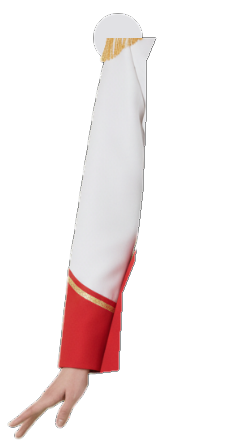
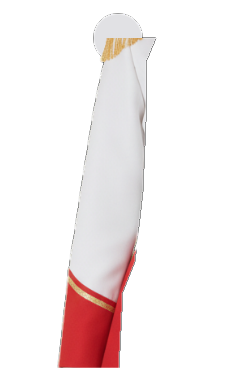
feat(rig-foto): manos como piezas aparte (guantes) con giro de muneca
La manga termina en la muneca; la mano (abierta, pulgar/puno, senalar) es una pieza que queda
detras del puño y gira en la muneca. Cada gesto elige su mano.

Changed region(s): [[0.0307, 0.0298, 0.7061, 1.0], [0.5833, 0.1491, 0.614, 0.2087]]

diff --git a/lienzo/titere-rig.js b/lienzo/titere-rig.js
@@ -31,8 +31,8 @@ const TRAJES_RIG = {
 // (el cuello queda detrás del cuello alto del uniforme) y la cara es la de la foto (sin expresiones dibujadas).
 const RIG_FOTO = path.join(__dirname, '..', 'assets', 'foto-rig');
 try { const m = JSON.parse(fs.readFileSync(path.join(RIG_FOTO, 'rig.json'), 'utf8')), pv = m.cabeza.pivoteY;
-  TRAJES_RIG['bastonera-foto'] = { dir: RIG_FOTO, piezas: ['cabeza', 'pelo', 'torso', 'hombros', 'brazo-abierto', 'piernas'], torso: 'torso', falda: null, brazos: ['brazo-abierto', 'brazo-abierto'], piernas: true, piernasJuntas: true, cabezaAntes: true,
-    cabeza: { x: 0, y: 26, px: 0.5, py: pv }, pelo: { x: 0, y: 26, px: 0.5, py: pv }, torsoPiv: { px: 0.5, py: 0 }, hombro: { x: m.CX - m.EJE_BRAZO, y: m.Y_HOMBRO + m.PIV_Y }, cadera: { x: 0, y: m.Y_CADERA - 2 }, pies: m.cuerpo.H, alto: m.cuerpo.H + m.cabeza.neckY + 4, long: m.largo, brazoPivY: m.PIV_Y, codoFrac: m.codoFrac, codoDuro: true, hombros: true, caraFoto: m.cabeza.cara };
+  TRAJES_RIG['bastonera-foto'] = { dir: RIG_FOTO, piezas: ['cabeza', 'pelo', 'torso', 'hombros', 'brazo-abierto', 'piernas', 'mano-abierto', 'mano-pulgar', 'mano-senalar'], torso: 'torso', falda: null, brazos: ['brazo-abierto', 'brazo-abierto'], piernas: true, piernasJuntas: true, cabezaAntes: true,
+    cabeza: { x: 0, y: 26, px: 0.5, py: pv }, pelo: { x: 0, y: 26, px: 0.5, py: pv }, torsoPiv: { px: 0.5, py: 0 }, hombro: { x: m.CX - m.EJE_BRAZO, y: m.Y_HOMBRO + m.PIV_Y }, cadera: { x: 0, y: m.Y_CADERA - 2 }, pies: m.cuerpo.H, alto: m.cuerpo.H + m.cabeza.neckY + 4, long: m.largo, brazoPivY: m.PIV_Y, codoFrac: m.codoFrac, codoDuro: true, hombros: true, manoFotos: m.manos, muneca: m.muneca, caraFoto: m.cabeza.cara };
   } catch { /* sin piezas de foto: el traje no existe */ }
 const ANCLAS_FOTO = { ojoY: 0.01, ojoDx: 0.17, ojoR: 0.058, bocaY: 0.33, bocaAncho: 0.118, cejaY: -0.075 }; // medidas sobre la foto de la cabeza ficticia (misma que usa recortes.muneco)
 const LONG = { sup: 150, ant: 118 }; // brazo superior y antebrazo hasta el centro de la mano (píxeles del armado)
@@ -44,7 +44,7 @@ const ANCLAS = { ojoY: -0.20, ojoDx: 0.27, ojoR: 0.075, bocaY: 0.255, bocaAncho:
 const POSES = {
   reposo: { I: { s: 7, c: 5 }, D: { s: 7, c: 5 } },
   celebrar: { I: { s: 152, c: 6 }, D: { s: 152, c: 6 }, salta: true },
-  senalar: { I: { s: 7, c: 5 }, D: { s: 92, c: 0 } },
+  senalar: { I: { s: 7, c: 5 }, D: { s: 92, c: 0 }, mano: { D: 'senalar' } },
 };
 // Cada gesto: duración (s), si los brazos se dibujan delante de la cabeza, y una función (τ en segundos desde el inicio) → dónde debe quedar la
 // MANO de cada brazo ({ mx, my } en el espacio del brazo: mx > 0 = hacia afuera del cuerpo, my hacia abajo; origen = arriba del torso, centro) y
@@ -52,12 +52,12 @@ const POSES = {
 const osc = (t, f, a) => Math.sin(t * f * 6.283) * a;
 const GESTOS = {
   mejillas: { dur: 1.6, delante: true, j: () => ({ I: { mx: 92, my: -58, mano: 'abierto' }, D: { mx: 92, my: -58, mano: 'abierto' }, cabeza: -4 }) },            // manos a las mejillas (sorpresa)
-  pecho: { dur: 1.6, delante: true, j: () => ({ D: { mx: -22, my: 100, mano: 'abierto' }, cabeza: 5 }) },                                                       // mano al pecho (me conmueve)
+  pecho: { dur: 1.6, delante: true, j: () => ({ D: { mx: -22, my: 100, mano: 'abierto', muneca: 25 }, cabeza: 5 }) },                                                       // mano al pecho (me conmueve)
   encoger: { dur: 1.2, j: t => ({ I: { mx: 168, my: 150, mano: 'abierto' }, D: { mx: 168, my: 150, mano: 'abierto' }, subir: 12 + osc(t, 2, 2), cabeza: -3 }) },     // encogerse de hombros
   aplauso: { dur: 1.6, delante: true, j: t => ({ I: { mx: 14 + osc(t, 3.2, 14), my: 120, mano: 'abierto' }, D: { mx: 14 + osc(t, 3.2, 14), my: 120, mano: 'abierto' } }) }, // aplauso
   cintura: { dur: 1.8, j: () => ({ I: { mx: 100, my: 214, mano: 'puno' }, D: { mx: 100, my: 214, mano: 'puno' }, cabeza: 4 }) },                                  // manos en la cintura (reto)
   boca: { dur: 1.6, delante: true, j: () => ({ D: { mx: 30, my: -18, mano: 'abierto' }, cabeza: -3 }) },                                                       // mano a la boca (chisme)
-  saludo: { dur: 1.8, j: t => ({ D: { mx: 175 + osc(t, 3, 22), my: -100, mano: 'abierto' }, cabeza: 4 }) },                                                      // saludo con la mano
+  saludo: { dur: 1.8, j: t => ({ D: { mx: 175 + osc(t, 3, 22), my: -100, mano: 'abierto', muneca: osc(t, 3, 28) }, cabeza: 4 }) },                                                      // saludo con la mano
 };
 
 // Cinemática inversa de 2 huesos: dado el hombro S y el punto T donde debe llegar la mano, devuelve los ángulos { s, c } (grados) con el codo hacia afuera.
@@ -113,7 +113,8 @@ function titereRig({ traje = 'bastonera', cx = 0.5, base = 0.9, alto = 0.5, esca
       const peso = G ? acotar(tau / 0.28) * acotar((G.dur - tau) / 0.28) : 0, obj = G ? G.j(tau) : {};
       for (const L of ['I', 'D']) if (obj[L] && obj[L].mx !== undefined && !obj[L].s) Object.assign(obj[L], ik({ x: R.hombro.x, y: R.hombro.y - (obj.subir || 0) }, { x: obj[L].mx, y: obj[L].my }, LG.sup, LG.ant));
       const lado = L => ({ s: lerp(pose[L].s, obj[L] ? obj[L].s : pose[L].s, peso), c: lerp(pose[L].c, obj[L] ? obj[L].c : pose[L].c, peso) });
-      const aI = lado('I'), aD = lado('D'), manoI = peso > 0.5 && obj.I && obj.I.mano ? obj.I.mano : 'abierto', manoD = peso > 0.5 && obj.D && obj.D.mano ? obj.D.mano : 'abierto';
+      const aI = lado('I'), aD = lado('D'), manoI = peso > 0.5 && obj.I && obj.I.mano ? obj.I.mano : (pose.mano && pose.mano.I) || 'abierto', manoD = peso > 0.5 && obj.D && obj.D.mano ? obj.D.mano : (pose.mano && pose.mano.D) || 'abierto';
+      const munI = spr(0, 'mI', peso && obj.I && obj.I.muneca ? obj.I.muneca * peso : 0, dt), munD = spr(0, 'mD', peso && obj.D && obj.D.muneca ? obj.D.muneca * peso : 0, dt);
       const sI = spr(0, 'sI', aI.s, dt), cI = spr(0, 'cI', aI.c, dt), sD = spr(0, 'sD', aD.s, dt), cD = spr(0, 'cD', aD.c, dt);
       // cuerpo: caída de entrada, saltos y respiración
       const c = caida(tAbs - t0); let dy = c.dy, sy = c.sy;
@@ -135,7 +136,7 @@ function titereRig({ traje = 'bastonera', cx = 0.5, base = 0.9, alto = 0.5, esca
       if (R.piernasJuntas) dib(img.piernas, 0, R.cadera.y, 0.5, 0, 0, false); else if (R.piernas) for (const lado of [-1, 1]) dib(img.pierna, lado * R.cadera.x, R.cadera.y, 0.5, 0.04, -lado * (pose.salta ? 0.12 : 0.02), lado < 0);
       if (R.falda) dib(img[R.falda], R.faldaPos.x, R.faldaPos.y, R.faldaPos.px, R.faldaPos.py, Math.sin(tAbs * 2.4) * 0.02 - giro, false);
       // 3) torso y brazos (en reposo los brazos van delante del torso; en gestos de cara, también delante de la cabeza)
-      const brazo = (lado, s, c, mano) => { // lado -1 = izquierda de la pantalla; s, c en grados (+ hacia afuera / + doblar hacia el cuerpo)
+      const brazo = (lado, s, c, mano, mun = 0) => { // lado -1 = izquierda de la pantalla; s, c en grados (+ hacia afuera / + doblar hacia el cuerpo)
         const im = img[mano === 'puno' ? R.brazos[1] : R.brazos[0]], wB = im.width, hB = im.height, cod = hB * (R.codoFrac ?? 0.5);
         ctx.save(); ctx.translate(lado * R.hombro.x, R.hombro.y - subir); if (lado > 0) ctx.scale(-1, 1); // espejo para el derecho: mismas convenciones
         ctx.rotate(s * GRAD);
@@ -146,7 +147,10 @@ function titereRig({ traje = 'bastonera', cx = 0.5, base = 0.9, alto = 0.5, esca
           if (Math.abs(c) > 10) { ctx.beginPath(); ctx.arc(wB / 2, cod, ci.r * 0.72, 0, Math.PI * 2); ctx.fillStyle = ci.col; ctx.fill(); } // relleno de la esquina, debajo de los dos tramos
           ctx.save(); ctx.beginPath(); ctx.rect(0, 0, wB, cod + 2); ctx.clip(); ctx.drawImage(im, 0, 0); ctx.restore(); // brazo superior (con todo el hombro)
           ctx.save(); ctx.translate(wB / 2, cod); ctx.rotate(-c * GRAD); ctx.translate(-wB / 2, -cod);
-          ctx.save(); ctx.beginPath(); ctx.rect(0, cod - 2, wB, hB - cod + 4); ctx.clip(); ctx.drawImage(im, 0, 0); ctx.restore(); ctx.restore(); // antebrazo y mano
+          if (R.manoFotos) { // la mano es una pieza aparte: queda DETRÁS de la manga (la muñeca se esconde bajo el puño del uniforme) y gira en la muñeca
+            const nm = mano === 'puno' ? 'pulgar' : (R.manoFotos[mano] ? mano : 'abierto'), mi = img['mano-' + nm], mf = R.manoFotos[nm];
+            ctx.save(); ctx.translate(R.muneca.x, R.muneca.y - 10); ctx.rotate(mun * GRAD); ctx.drawImage(mi, -mf.ax, 0); ctx.restore(); }
+          ctx.save(); ctx.beginPath(); ctx.rect(0, cod - 2, wB, hB - cod + 4); ctx.clip(); ctx.drawImage(im, 0, 0); ctx.restore(); ctx.restore(); // antebrazo (manga) por delante de la mano
           B.sinSombra(ctx); ctx.restore(); return;
         }
         // brazo superior (mitad de arriba) y antebrazo con mano (mitad de abajo, un poco solapadas), girando en el codo
@@ -159,7 +163,7 @@ function titereRig({ traje = 'bastonera', cx = 0.5, base = 0.9, alto = 0.5, esca
       const delante = Boolean(G && G.delante && peso > 0.01);
       if (R.cabezaAntes) cabezaF();
       dib(img[R.torso], 0, -subir * 0.6, 0.5, 0, Math.sin(tAbs * 1.3 + 1) * 0.012, false);
-      if (!delante || R.hombros) { brazo(-1, sI, cI, manoI); brazo(1, sD, cD, manoD); }
+      if (!delante || R.hombros) { brazo(-1, sI, cI, manoI, munI); brazo(1, sD, cD, manoD, munD); }
       if (R.hombros) dib(img.hombros, 0, -subir * 0.6, 0.5, 0, Math.sin(tAbs * 1.3 + 1) * 0.012, false); // el hombro del torso va encima del brazo: ahí está la unión
       // 4) cabeza con expresión modelada y accesorios (con cabezaAntes se dibuja antes del torso: el cuello queda detrás del cuello del traje)
       function cabezaF() {
@@ -178,7 +182,7 @@ function titereRig({ traje = 'bastonera', cx = 0.5, base = 0.9, alto = 0.5, esca
       ctx.restore();
       }
       if (!R.cabezaAntes) cabezaF();
-      if (delante && !R.hombros) { brazo(-1, sI, cI, manoI); brazo(1, sD, cD, manoD); }
+      if (delante && !R.hombros) { brazo(-1, sI, cI, manoI, munI); brazo(1, sD, cD, manoD, munD); }
       ctx.restore();
       // pegatinas flotantes (bastón…) con resortes y giro opcional
       pegatinas.forEach((p, i) => {

diff --git a/scripts/kit-foto-rig.js b/scripts/kit-foto-rig.js
@@ -7,7 +7,7 @@ const { createCanvas, loadImage } = require('@napi-rs/canvas');
 const KIT = path.join(__dirname, '..', 'assets', 'kit'), SAL = path.join(__dirname, '..', 'assets', 'foto-rig');
 const interp = (pts, y) => { if (y <= pts[0][0]) return pts[0][1]; for (let i = 1; i < pts.length; i++) if (y <= pts[i][0]) { const [y0, v0] = pts[i - 1], [y1, v1] = pts[i]; return v0 + (v1 - v0) * (y - y0) / (y1 - y0); } return pts[pts.length - 1][1]; };
 // borde interior del brazo izquierdo (el que da al torso) por fila; el derecho es el espejo respecto al eje x = CX
-const CX = 221, BORDE = [[40, 160], [88, 140], [150, 139], [220, 136], [290, 128], [320, 116], [398, 112], [402, 82], [470, 82]], Y_PIV = 66, R_HOMBRO = 38, Y_HOMBRO = Y_PIV - R_HOMBRO, PIV_Y = R_HOMBRO, Y_CORE = 96, Y_CODO = 280, Y_MANO = 470, Y_CADERA = 458;
+const CX = 221, BORDE = [[40, 160], [88, 140], [150, 139], [220, 136], [290, 128], [320, 116], [398, 112], [402, 82], [470, 82]], Y_PIV = 66, R_HOMBRO = 38, Y_HOMBRO = Y_PIV - R_HOMBRO, PIV_Y = R_HOMBRO, Y_CORE = 96, Y_CODO = 280, Y_MUN = 395, Y_MANO = 470, Y_CADERA = 458;
 const EJE_BRAZO = 108; // x del eje del brazo (centro de la manga) en la foto
 
 function pixeles(img) { const c = createCanvas(img.width, img.height), x = c.getContext('2d'); x.drawImage(img, 0, 0); return { c, x, id: x.getImageData(0, 0, img.width, img.height) }; }
@@ -26,11 +26,11 @@ async function cuerpo() {
   for (let y = 0; y < Y_CADERA + 4; y++) for (let x = 0; x < W; x++) { if (y >= Y_CORE && (dentroBrazoI(x, y) || dentroBrazoD(x, y))) continue; const i = (y * W + x) * 4, o = i; cid.data[o] = d[i]; cid.data[o + 1] = d[i + 1]; cid.data[o + 2] = d[i + 2]; cid.data[o + 3] = d[i + 3]; }
   cx.putImageData(cid, 0, 0); guardar(core, 'torso');
   // brazo (el izquierdo de la foto), recortado y centrado en su eje; el derecho se obtiene espejando este
-  const aw = 2 * (EJE_BRAZO + 6), ah = Y_MANO - Y_HOMBRO + 4, br = createCanvas(aw, ah), bx = br.getContext('2d'), bid = bx.createImageData(aw, ah);
+  const aw = 2 * (EJE_BRAZO + 6), ah = Y_MUN - Y_HOMBRO + 2, br = createCanvas(aw, ah), bx = br.getContext('2d'), bid = bx.createImageData(aw, ah);
   // color de la manga (blanco del uniforme) para el disco del hombro
   let mr = 0, mg = 0, mb = 0, mn = 0; for (let y = 110; y < 130; y++) for (let x = 70; x < 130; x++) { const i = (y * W + x) * 4; if (d[i + 3] > 250 && d[i] > 190 && Math.abs(d[i] - d[i + 2]) < 16) { mr += d[i]; mg += d[i + 1]; mb += d[i + 2]; mn++; } }
   const colM = mn ? `rgb(${Math.round(mr / mn)},${Math.round(mg / mn)},${Math.round(mb / mn)})` : '#e8e8e8';
-  for (let y = Y_PIV; y < Y_HOMBRO + ah; y++) for (let x = 0; x < EJE_BRAZO + 80; x++) { if (!dentroBrazoI(x, y)) continue; const ox = x - EJE_BRAZO + aw / 2, oy = y - Y_HOMBRO; if (ox < 0 || ox >= aw) continue; const i = (y * W + x) * 4, o = (oy * aw + ox) * 4; bid.data[o] = d[i]; bid.data[o + 1] = d[i + 1]; bid.data[o + 2] = d[i + 2]; bid.data[o + 3] = d[i + 3]; }
+  for (let y = Y_PIV; y < Y_HOMBRO + ah && y <= Y_MUN; y++) for (let x = 0; x < EJE_BRAZO + 80; x++) { if (!dentroBrazoI(x, y)) continue; const ox = x - EJE_BRAZO + aw / 2, oy = y - Y_HOMBRO; if (ox < 0 || ox >= aw) continue; const i = (y * W + x) * 4, o = (oy * aw + ox) * 4; bid.data[o] = d[i]; bid.data[o + 1] = d[i + 1]; bid.data[o + 2] = d[i + 2]; bid.data[o + 3] = d[i + 3]; }
   bx.fillStyle = colM; bx.beginPath(); bx.arc(aw / 2 + 4, R_HOMBRO, 24, 0, Math.PI * 2); bx.fill();
   const tmp = createCanvas(aw, ah); tmp.getContext('2d').putImageData(bid, 0, 0); bx.drawImage(tmp, 0, 0);
   guardar(br, 'brazo-abierto'); guardar(br, 'brazo-puno');
@@ -71,9 +71,26 @@ async function cabeza() {
   guardar(cab, 'cabeza'); guardar(pel, 'pelo');
   return { cw, ch, pivoteY: NECK_Y * S / ch, chinY: CHIN_Y * S, neckY: NECK_Y * S, cara: { cx: 432 * S, cy: 408 * S, w: 610 * S, h: 663 * S } }; // caja de la cara medida sobre esta foto
 }
+let MUNECA = null, MANOS = {};
+// Manos como piezas aparte: guantes del kit (assets/kit/guante-*.png) girados para que los dedos apunten hacia abajo y la muñeca quede arriba, al centro.
+async function manos(arm) {
+  const ARM = { abierto: ['guante-abierto', 180], pulgar: ['guante-pulgar', 90], senalar: ['guante-senalar', 90] }, ANCHO = 46;
+  for (const [nombre, [arch, rot]] of Object.entries(ARM)) {
+    const img = await loadImage(fs.readFileSync(path.join(KIT, arch + '.png'))), D = Math.ceil(Math.hypot(img.width, img.height)), r = createCanvas(D, D), rx = r.getContext('2d');
+    rx.translate(D / 2, D / 2); rx.rotate(rot * Math.PI / 180); rx.drawImage(img, -img.width / 2, -img.height / 2);
+    const dd = rx.getImageData(0, 0, D, D).data; let x0 = D, x1 = 0, y0 = D, y1 = 0; for (let y = 0; y < D; y++) for (let x = 0; x < D; x++) if (dd[(y * D + x) * 4 + 3] > 40) { if (x < x0) x0 = x; if (x > x1) x1 = x; if (y < y0) y0 = y; if (y > y1) y1 = y; }
+    // ancho de la muñeca: extensión horizontal de las primeras filas opacas
+    let m0 = D, m1 = 0; for (let y = y0; y < y0 + Math.max(4, (y1 - y0) * 0.05); y++) for (let x = x0; x <= x1; x++) if (dd[(y * D + x) * 4 + 3] > 40) { if (x < m0) m0 = x; if (x > m1) m1 = x; }
+    const k = ANCHO / (m1 - m0), ax = ((m0 + m1) / 2 - x0) * k, w = (x1 - x0 + 1) * k, h = (y1 - y0 + 1) * k, W2 = Math.ceil(2 * Math.max(ax, w - ax)), c = createCanvas(W2, Math.ceil(h)), cx = c.getContext('2d');
+    cx.drawImage(r, x0, y0, x1 - x0 + 1, y1 - y0 + 1, W2 / 2 - ax, 0, w, h); guardar(c, 'mano-' + nombre); MANOS[nombre] = { w: W2, h: Math.ceil(h), ax: W2 / 2 };
+  }
+  // centro de la manga en la muñeca (en el lienzo del brazo)
+  const bcv = await loadImage(path.join(SAL, 'brazo-abierto.png')), t = createCanvas(bcv.width, bcv.height), tx = t.getContext('2d'); tx.drawImage(bcv, 0, 0); const row = bcv.height - 6, bd = tx.getImageData(0, row, bcv.width, 1).data; let a0 = 1e9, a1 = -1; for (let x = 0; x < bcv.width; x++) if (bd[x * 4 + 3] > 200) { if (x < a0) a0 = x; if (x > a1) a1 = x; }
+  MUNECA = { x: (a0 + a1) / 2, y: bcv.height - 2, ancho: a1 - a0 };
+}
 (async () => {
   fs.mkdirSync(SAL, { recursive: true });
-  const c = await cuerpo(), h = await cabeza();
-  fs.writeFileSync(path.join(SAL, 'rig.json'), JSON.stringify({ descripcion: 'Piezas del rig de fotos (cuerpo FICTICIO genérico + cabeza FICTICIA). Coordenadas en píxeles de estas piezas.', cuerpo: c, cabeza: h, CX, EJE_BRAZO, Y_HOMBRO, PIV_Y, Y_CODO, Y_MANO, Y_CADERA, codoFrac: (Y_CODO - Y_HOMBRO) / (Y_MANO - Y_HOMBRO + 4), largo: { sup: Y_CODO - Y_PIV, ant: Y_MANO - 30 - Y_CODO } }, null, 2));
+  const c = await cuerpo(), h = await cabeza(); await manos();
+  fs.writeFileSync(path.join(SAL, 'rig.json'), JSON.stringify({ descripcion: 'Piezas del rig de fotos (cuerpo FICTICIO genérico + cabeza FICTICIA). Coordenadas en píxeles de estas piezas.', cuerpo: c, cabeza: h, CX, EJE_BRAZO, Y_HOMBRO, PIV_Y, Y_CODO, Y_MANO, Y_CADERA, codoFrac: (Y_CODO - Y_HOMBRO) / (Y_MUN - Y_HOMBRO + 2), largo: { sup: Y_CODO - Y_PIV, ant: Y_MUN + 50 - Y_CODO }, muneca: MUNECA, manos: MANOS }, null, 2));
   console.log('listo', SAL, JSON.stringify(h));
 })().catch(e => { console.error('FALLO', e); process.exit(1); });
